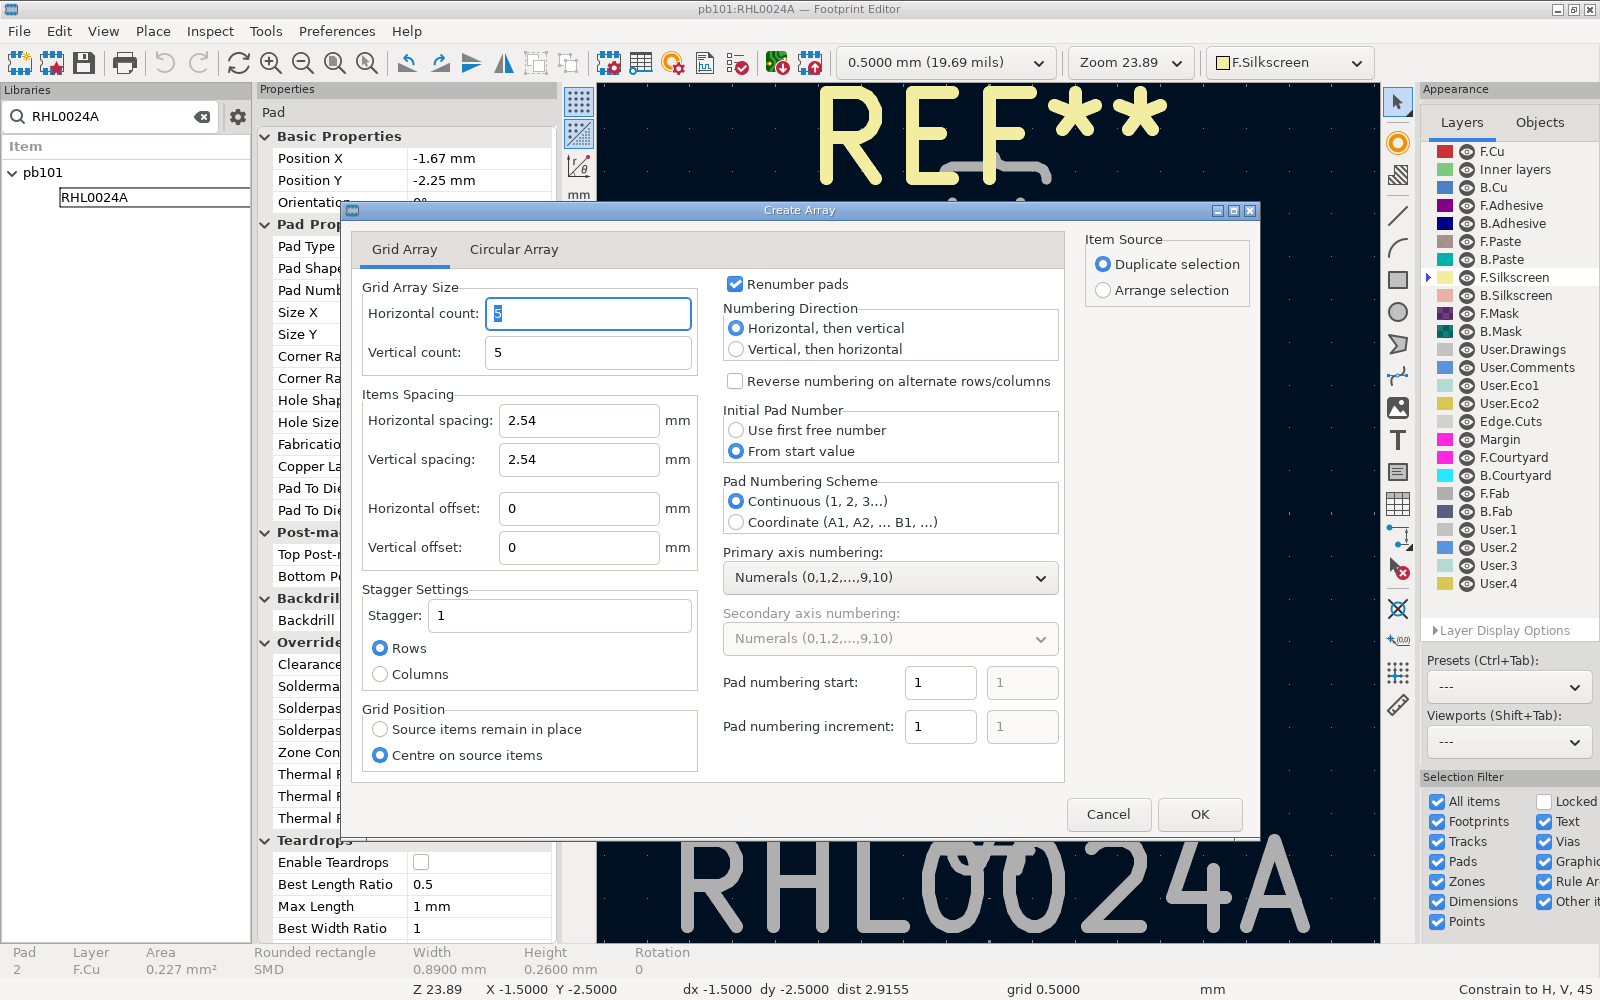
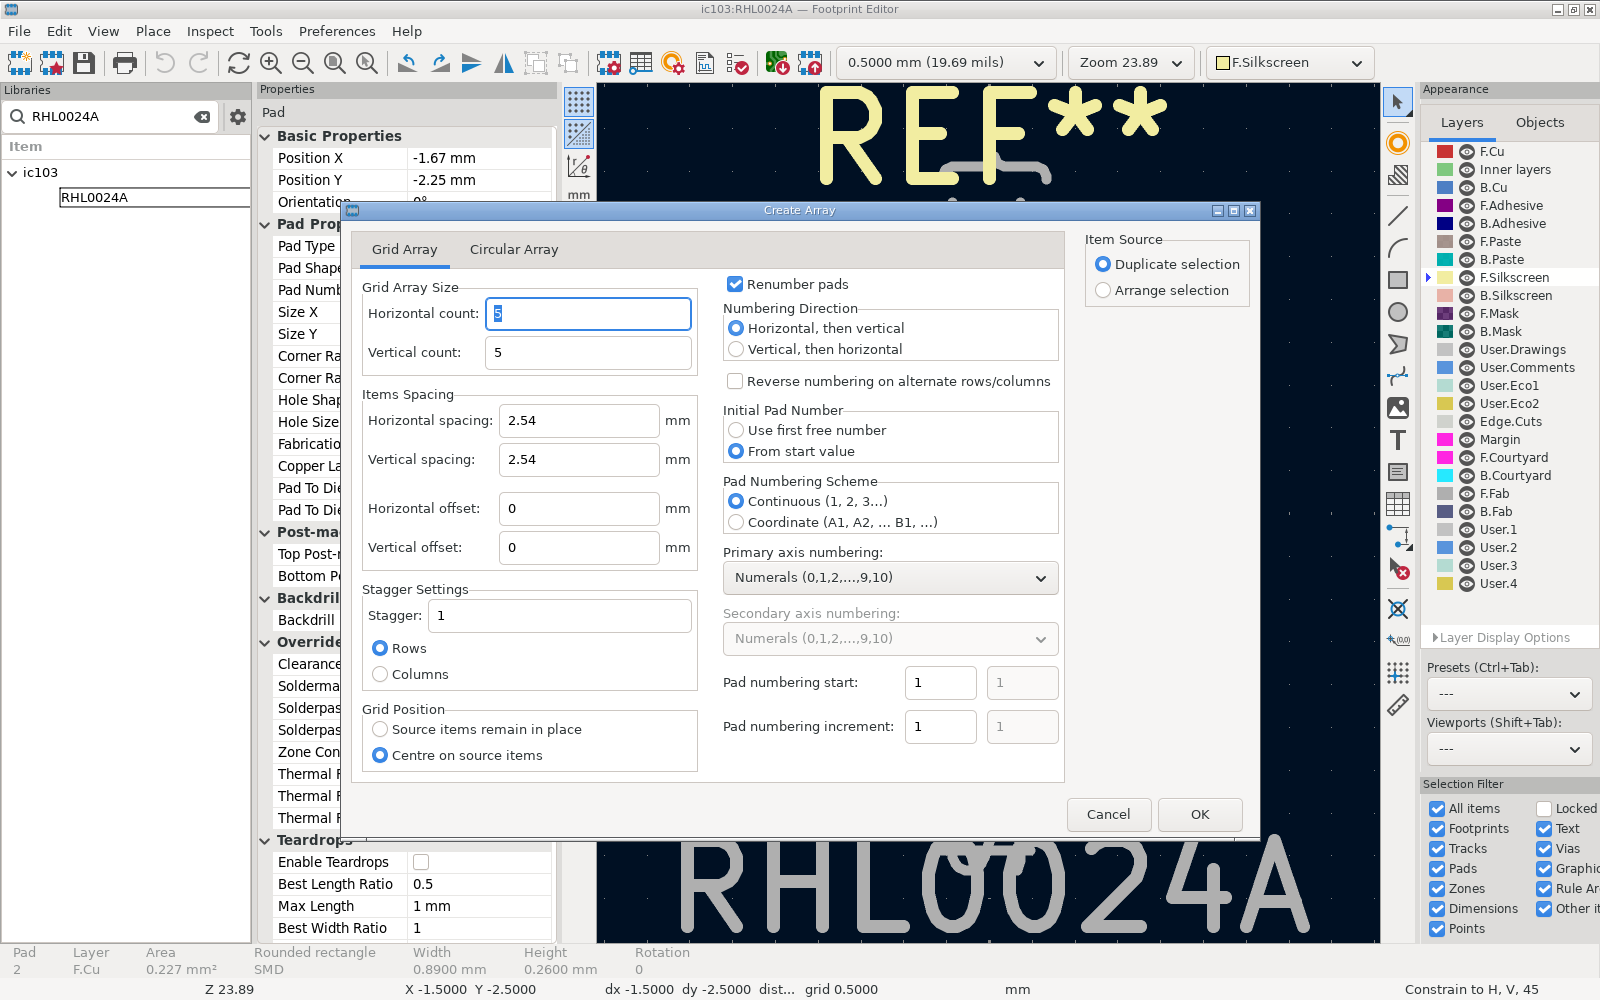
Lab 02: re-shoot the footprint, Pad Properties and Create Array
The three shots now show library ic103 in the title bar, the library
tree, Library Link and the status bar (they showed pb101). In KiCad
10.0.5, Return in the Footprint Editor's library filter didn't open the
footprint in two runs, and a double-click on it didn't in a third;
clicking the item and then pressing Return did, so lab02-rhl0024a.sh
does that. The Pad Properties alt text names 10.0.5.

diff --git a/docs/labs/lab-02-a-footprint-from-a-datasheet-overview.md b/docs/labs/lab-02-a-footprint-from-a-datasheet-overview.md
@@ -100,7 +100,7 @@ Can you turn your numbers into a footprint that KiCad will check?
 
 2. Place one pad with the pad tool on the right-hand toolbar, then press E on it to open its properties:
 
-   ![KiCad 10.0.8's Pad Properties dialog for pad 1 of the reference footprint: SMD, pad number 1, position -0.75, -2.67 mm, rounded rectangle with a 25 % corner, size 0.26 × 0.89 mm, on F.Cu with F.Paste and F.Mask.](../assets/img/kicad-pad-properties-rhl0024a.png)
+   ![KiCad 10.0.5's Pad Properties dialog for pad 1 of the reference footprint: SMD, pad number 1, position -0.75, -2.67 mm, rounded rectangle with a 25 % corner, size 0.26 × 0.89 mm, on F.Cu with F.Paste and F.Mask.](../assets/img/kicad-pad-properties-rhl0024a.png)
 
    Make it pad 2: SMD, rounded rectangle, 0.89 mm in X by 0.26 mm in Y, at X = −1.67 and Y = −2.25, with your own numbers in place of these if they differ. Leave F.Paste and F.Mask ticked. KiCad's Y axis points down, so negative Y is the top of the footprint.
 
